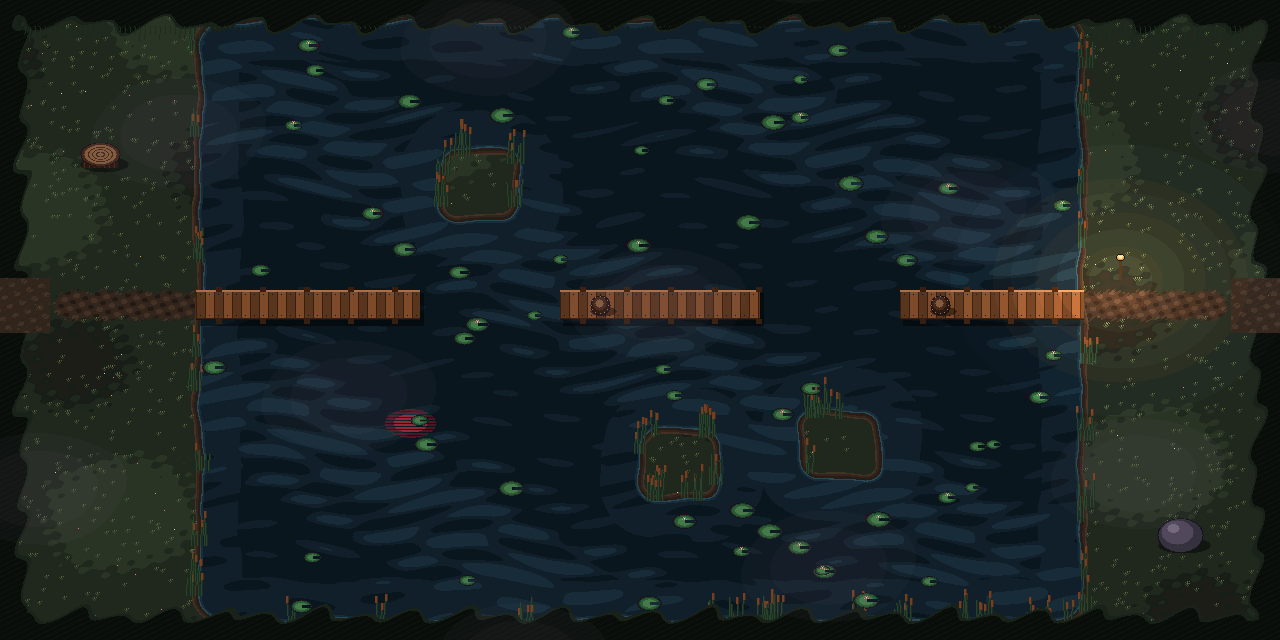
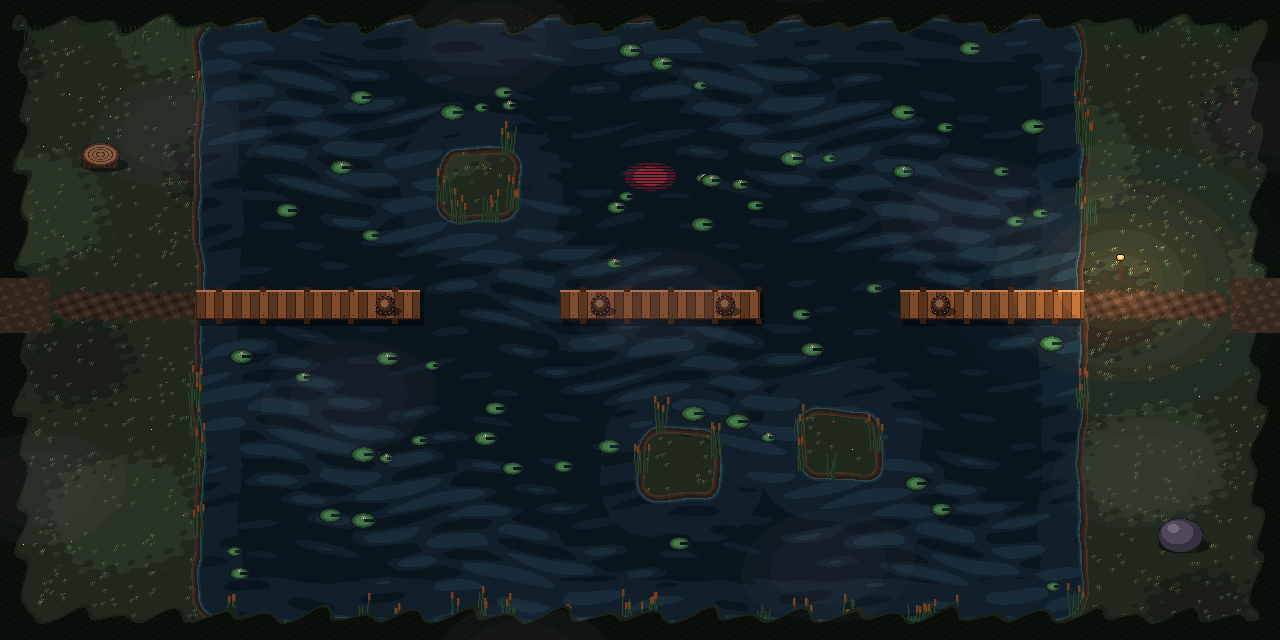
Critters swim instead of sinking; every room finishable both ways
- Frogs and Snappers that leap, charge or get knocked into the water swim to the nearest real
  dry land (docks and islands count), harmless while swimming, then climb out; first splash drops Pond Muck
- Hits no longer knock Rocco off a boardwalk into the water
- Return posts in Mooring Run, Snapper Shallows, Lily Crossing and Heron's Approach
  (some crossings were one-way)
- New test/progress.test.ts: flood-fills every room (walking, post crossings, bell honks)
  and checks each exit is reachable from the entry and back
- 92 tests

Claude-Session: https://claude.ai/code/session_01RHVZyy8vCMEMq4kRSxG4Ay

diff --git a/src/core/sim.ts b/src/core/sim.ts
@@ -53,6 +53,8 @@ export interface Enemy {
   attack: AttackKind;
   /** Seconds Biscuit has been hanging on (bosses shake him off). */
   grip: number;
+  /** Has been in the water once already (the first splash shakes loose some Pond Muck). */
+  wet: boolean;
 }
 
 /**
@@ -60,7 +62,7 @@ export interface Enemy {
  * leap: a frog's flying jump at the pack. lash: a frog's tongue, out and back. charge: Old Snapper's rush.
  * recover: a beat of vulnerability after an attack.
  */
-export type CritterMode = 'stalk' | 'wind' | 'leap' | 'lash' | 'charge' | 'recover' | 'spear' | 'gust' | 'darts' | 'call';
+export type CritterMode = 'stalk' | 'wind' | 'leap' | 'lash' | 'charge' | 'recover' | 'spear' | 'gust' | 'darts' | 'call' | 'swim';
 export type AttackKind = 'leap' | 'lash' | 'charge' | 'bite' | 'spear' | 'gust' | 'dart';
 
 /** A feather dart lobbed at Bimbo: it lands on the marked spot when t reaches T. */
@@ -119,6 +121,7 @@ const QUIPS = {
   honk: ['HONK'],
   furious: ['FURY MODE. You are not in charge.'],
   slurp: ['SLURP. A frog tongue in the pack.', 'The frog drank some of Bimbo\'s water!', 'Tongue! Bimbo: "HEY."'],
+  swimback: ['Splash! The frog paddles back to shore.', 'Plop. It swims for the bank.', 'Into the drink! It will be back.'],
   wake: ['The frog blinks awake. Ribbit?', 'Trance broken. The frog hops home.', 'Red eyes fade. Frog says thanks.'],
 } as const;
 
@@ -223,6 +226,24 @@ export class Sim {
   restartRoom(): void {
     if (!this.room.def.doors) { this.reset(); return; }
     this.enterRoom(this.room.def, this.entryDoor, true);
+  }
+
+  /** The closest spot a critter can climb out onto: dry, inside the room, clear of walls (docks and islands count). */
+  nearestLand(x: number, y: number, r: number): Vec {
+    const room = this.room, { width, height } = room.def;
+    for (let d = 12; d < 900; d += 12) {
+      const n = Math.max(12, Math.round(d / 6));
+      let best: Vec | null = null, bd = Infinity;
+      for (let i = 0; i < n; i++) {
+        const a = (i / n) * Math.PI * 2, px = x + Math.cos(a) * d, py = y + Math.sin(a) * d;
+        if (px < r + 20 || py < r + 20 || px > width - r - 20 || py > height - r - 20) continue;
+        if (room.inPit(px, py, -r)) continue;
+        const o = { x: px, y: py, r }; if (room.collide(o)) continue;
+        const dd = Math.hypot(px - x, py - y); if (dd < bd) { bd = dd; best = { x: px, y: py }; }
+      }
+      if (best) return best;
+    }
+    return { x, y };
   }
 
   /** Where Bimbo is: on Rocco's back, opposite the way he faces. */
@@ -366,7 +387,7 @@ export class Sim {
     const hp = boss ? HERON_HP : k ? 8 : 3;
     return { id: this.nextId++, kind, x, y, r: boss ? 24 : k ? 20 : 13, hp, max: hp, heavy: k, stun: 0,
       vx: 0, vy: 0, falling: 0, dead: false, hitT: 0, spd: boss ? 0 : k ? 42 : 78, woke: 0,
-      mode: 'stalk', modeT: 0, cd: boss ? 2 : 0.8 + this.rng() * 1.2, tx: x, ty: y, hit: false, attack: 'leap', grip: 0 };
+      mode: 'stalk', modeT: 0, cd: boss ? 2 : 0.8 + this.rng() * 1.2, tx: x, ty: y, hit: false, attack: 'leap', grip: 0, wet: false };
   }
 
   /** Take and clear the events produced since the last drain. */
@@ -651,8 +672,9 @@ export class Sim {
       this.fx('splash', bk.x, bk.y - 34);
       if (pk.water > 0.3) this.say(heavy ? 'WHAM. Old Snapper rams the pack.' : side > 1 ? 'It leapt at Bimbo! Water everywhere.' : 'Splash! Rocco blocks most of it.');
     }
-    if (from && pk.enabled) {                        // knocked back, away from the hit
-      const [ux, uy] = dirTo(from, p); p.vx += ux * (heavy ? 340 : 200); p.vy += uy * (heavy ? 340 : 200);
+    if (from && pk.enabled) {                        // knocked back, away from the hit, but never off a dock into the water
+      const [ux, uy] = dirTo(from, p), k = heavy ? 340 : 200, reach = k * 0.12;
+      if (!this.room.inPit(p.x + ux * (reach + 10), p.y + uy * (reach + 10), 0)) { p.vx += ux * k; p.vy += uy * k; }
     }
     this.waterWarnings(before);
   }
@@ -851,6 +873,24 @@ export class Sim {
       let ax = 0, ay = 0;
       const slow = g.state === 'latched' && g.target === e ? 0.35 : 1;
       const critter = ENTRANCED.has(e.kind);
+      if (critter && !BOSS.has(e.kind) && room.inPit(e.x, e.y, 2)) {
+        // Frogs and turtles swim. In the water a critter is harmless: it paddles back to the nearest bank.
+        if (e.mode !== 'swim') {
+          e.mode = 'swim'; e.modeT = 0;
+          const land = this.nearestLand(e.x, e.y, e.r); e.tx = land.x; e.ty = land.y;
+          this.fx('splash', e.x, e.y - 6);
+          if (!e.wet) { e.wet = true; this.drop('goo', room.bankPoint(e.x, e.y, 14).x, room.bankPoint(e.x, e.y, 14).y); }
+          this.say(this.pick('swimback'));
+        }
+        e.modeT += dt;
+        if (e.modeT > 4) { const land = this.nearestLand(e.x, e.y, e.r); e.tx = land.x; e.ty = land.y; e.modeT = 0; }   // re-plan if stuck
+        const [bx, by] = dirTo(e, { x: e.tx, y: e.ty }), sp = e.heavy ? 40 : 62;
+        e.x += (bx * sp + e.vx) * dt; e.y += (by * sp + e.vy) * dt;
+        const dk = Math.exp(-4 * dt); e.vx *= dk; e.vy *= dk;
+        room.collide(e); this.keepInside(e);
+        continue;
+      }
+      if (e.mode === 'swim') { e.mode = 'recover'; e.modeT = 0; e.cd = 1.2; }   // climbed out, shaking off
       if (BOSS.has(e.kind)) [ax, ay] = this.heronAI(e, dt, d);
       else if (critter) [ax, ay] = this.critterAI(e, dt, d, slow);
       else if (!e.stun && d < (AGGRO[e.kind] ?? 300)) { ax = dx * e.spd * slow; ay = dy * e.spd * slow; }
@@ -863,7 +903,7 @@ export class Sim {
       e.x += e.vx * dt; e.y += e.vy * dt;
       const dec = Math.exp(-5 * dt); e.vx *= dec; e.vy *= dec;
       room.collide(e);
-      if (room.inPit(e.x, e.y, 2) && Math.hypot(e.vx, e.vy) > 0) {
+      if (!critter && room.inPit(e.x, e.y, 2) && Math.hypot(e.vx, e.vy) > 0) {   // Room 01 pests fall; critters swim (above)
         e.falling = 0.001; this.handled++;
         const bank = room.bankPoint(e.x, e.y, 14);
         this.drop('goo', bank.x, bank.y);

diff --git a/test/progress.test.ts b/test/progress.test.ts
@@ -1,0 +1,105 @@
+/**
+ * Can every room actually be finished? A flood fill over walkable ground from the entry door, adding the
+ * moves Rocco has: walking, fling-and-yank to any post in leash range (landing where the pull stops), and
+ * honking the bell to open the gate. Each exit door must be reachable. No critters needed (they may wander off).
+ */
+import { describe, expect, it } from 'vitest';
+import { C } from '../src/core/config';
+import { Room } from '../src/core/room';
+import { ROOMS, WILLOWMERE, type RoomDef } from '../src/data/rooms';
+
+const CELL = 8;
+const HONK_REACH = 155 * (0.85 + 0.15 * 2) + 30;   // base honk range at Goose Power 2, plus the bell's slack
+
+function reachable(def: RoomDef, leash: number, fromDoor: string | null): { doors: Set<string>; gateOpened: boolean } {
+  const room = new Room(def);
+  const W = Math.ceil(def.width / CELL), H = Math.ceil(def.height / CELL);
+  const seen = new Uint8Array(W * H);
+  const walk = (x: number, y: number) => {
+    if (x < C.playerRadius || y < C.playerRadius || x > def.width - C.playerRadius || y > def.height - C.playerRadius) return false;
+    if (room.inPit(x, y, 6)) return false;
+    const o = { x, y, r: C.playerRadius - 2 };
+    return !room.collide(o);
+  };
+  const start = fromDoor ? def.doors!.find(d => d.id === fromDoor)!.spawn : def.playerStart;
+  const queue: [number, number][] = [];
+  const push = (x: number, y: number) => {
+    const cx = Math.floor(x / CELL), cy = Math.floor(y / CELL);
+    if (cx < 0 || cy < 0 || cx >= W || cy >= H || seen[cy * W + cx]) return;
+    if (!walk(cx * CELL + CELL / 2, cy * CELL + CELL / 2)) return;
+    seen[cy * W + cx] = 1; queue.push([cx, cy]);
+  };
+  let gateOpened = false;
+  const flood = () => {
+    while (queue.length) {
+      const [cx, cy] = queue.pop()!;
+      const x = cx * CELL + CELL / 2, y = cy * CELL + CELL / 2;
+      push(x + CELL, y); push(x - CELL, y); push(x, y + CELL); push(x, y - CELL);
+      for (const p of def.posts) {
+        const d = Math.hypot(p.x - x, p.y - y);
+        if (d < p.r + 34 || d > leash - 8) continue;
+        const stop = p.r + C.playerRadius + 4;
+        push(p.x - ((p.x - x) / d) * stop, p.y - ((p.y - y) / d) * stop);
+      }
+      if (def.bell && room.gateClosed && Math.hypot(def.bell.x - x, def.bell.y - y) < HONK_REACH + def.bell.r) gateOpened = true;
+    }
+  };
+  push(start.x, start.y);
+  flood();
+  if (gateOpened && room.gateClosed) {
+    room.gateClosed = false;
+    // re-flood from everything reached so far, now the gate is open
+    for (let i = 0; i < W * H; i++) if (seen[i]) queue.push([i % W, Math.floor(i / W)]);
+    flood();
+  }
+  const doors = new Set<string>();
+  for (const d of def.doors ?? []) {
+    for (let x = d.x; x <= d.x + d.w; x += 4) for (let y = d.y; y <= d.y + d.h; y += 4) {
+      const cx = Math.floor(x / CELL), cy = Math.floor(y / CELL);
+      if (cx >= 0 && cy >= 0 && cx < W && cy < H && seen[cy * W + cx]) doors.add(d.id);
+    }
+    // the door trigger sits in the gap at the edge; standing just inside it counts
+    const ix = d.spawn.x + (d.x + d.w / 2 - d.spawn.x) * 0.7, iy = d.spawn.y + (d.y + d.h / 2 - d.spawn.y) * 0.7;
+    if (seen[Math.floor(iy / CELL) * W + Math.floor(ix / CELL)]) doors.add(d.id);
+  }
+  return { doors, gateOpened };
+}
+
+/** The critical path: hub north, then each Reedmarsh room in order. */
+const PATH: [string, string | null, string, boolean][] = [
+  ['willowmere', null, 'north', false],
+  ['reedmarsh-1', 's', 'n', false],
+  ['reedmarsh-2', 'w', 'e', false],
+  ['reedmarsh-3', 'w', 'e', false],
+  ['reedmarsh-4', 'w', 'n', false],
+  ['reedmarsh-5', 'w', 'e', false],
+  ['reedmarsh-6', 'w', 'e', true],
+  ['reedmarsh-7', 'w', 'e', true],
+  ['reedmarsh-8', 'w', 'n', true],
+  ['reedmarsh-9', 'w', 'e', true],
+  ['reedmarsh-10', 'w', 'e', true],
+  ['reedmarsh-11', 'w', 'e', true],
+];
+
+describe('every room can be finished', () => {
+  for (const [id, from, exit, braided] of PATH) {
+    it(`${id}: from ${from ?? 'start'} to ${exit}`, () => {
+      const def = ROOMS[id] ?? WILLOWMERE;
+      const r = reachable(def, braided ? 270 : 230, from);
+      expect([...r.doors], `${id} exits reached`).toContain(exit);
+    });
+  }
+
+  it('Snapper Shallows can be crossed by the post alone, even if both Snappers are gone', () => {
+    expect([...reachable(ROOMS['reedmarsh-4']!, 230, 'w').doors]).toContain('n');
+  });
+
+  it('and you can always get back: each room returns to the door you came in by', () => {
+    for (const [id, from, exit, braided] of PATH) {
+      if (!from) continue;
+      const def = ROOMS[id]!;
+      const r = reachable(def, braided ? 270 : 230, exit === 'north' ? null : exit);
+      expect([...r.doors], `${id}: back from ${exit}`).toContain(from);
+    }
+  });
+});

diff --git a/test/world.test.ts b/test/world.test.ts
@@ -210,12 +210,35 @@ describe('Reedmarsh crossings', () => {
 });
 
 describe('Reedmarsh part two', () => {
-  it('Snapper Run: a Snapper that charges past Rocco over the bank goes into the water', () => {
+  it('Snapper Run: a Snapper that charges over the bank splashes in, swims back, and climbs out', () => {
     const sim = at(ROOMS['reedmarsh-9']!); fixRng(sim, 0.5);
     const s = sim.mkEnemy('snapper', 600, 300); sim.enemies.push(s);
     s.mode = 'charge'; s.attack = 'charge'; s.modeT = 0; s.vx = 0; s.vy = 330; s.hit = true;
-    run(sim, 1);
-    expect(s.falling > 0 || s.dead).toBe(true);
+    let swam = false;
+    for (let i = 0; i < 60 * 8; i++) { sim.step(STEP); if ((s.mode as string) === 'swim') swam = true; }
+    expect(swam).toBe(true);
+    expect(s.dead).toBe(false); expect(s.falling).toBe(0);
+    expect(sim.room.inPit(s.x, s.y, 2)).toBe(false);         // back on land
+  });
+
+  it('a frog that leaps into the water swims back instead of dying', () => {
+    const sim = at(ROOMS['reedmarsh-7']!);
+    const f = sim.mkEnemy('frog', 640, 225); sim.enemies.push(f);
+    f.x = 700; f.y = 200; f.vx = 0; f.vy = 0;                // in the water off the island
+    let swam = false;
+    for (let i = 0; i < 60 * 6; i++) { sim.step(STEP); if (f.mode === 'swim') swam = true; }
+    expect(swam).toBe(true);
+    expect(sim.enemies.includes(f)).toBe(true);
+    expect(f.dead).toBe(false);
+    expect(sim.room.inPit(f.x, f.y, 2)).toBe(false);
+  });
+
+  it('a hit never knocks Rocco off a boardwalk into the water', () => {
+    const sim = at(ROOMS['reedmarsh-7']!); fixRng(sim, 0.99);
+    sim.player.x = 360; sim.player.y = 315; sim.player.inv = 0;   // on the first boardwalk
+    sim.hurtPlayer(1, true, { x: 360, y: 290 });                  // hit from the north: pushed south, toward water
+    run(sim, 0.5);
+    expect(sim.room.inPit(sim.player.x, sim.player.y, 6)).toBe(false);
   });
 
   it('Bell Islands: the bell can be honked from the first island', () => {

diff --git a/src/view/art.ts b/src/view/art.ts
@@ -383,6 +383,10 @@ export class ArtRenderer {
       const moving = e.woke > 0 || Math.hypot(e.vx, e.vy) > 15;
       let hop = e.kind !== 'snapper' && moving ? -Math.abs(Math.sin(time * 9 + e.id)) * 4 : 0;
       if (e.mode === 'leap') hop = -Math.sin(Math.min(1, e.modeT / 0.34) * Math.PI) * 16;     // arcs through the air
+      if (e.mode === 'swim') {                     // low in the water, paddling, with a ripple
+        hop = 6 + Math.round(Math.sin(time * 6 + e.id) * 1.5);
+        g.lineStyle(1, 0x9ae0ff, 0.6); g.strokeEllipse(x, y + 6, e.heavy ? 50 : 24 + Math.sin(time * 5) * 3, e.heavy ? 12 : 7);
+      }
       const pdx = sim.player.x - x;
       s.setPosition(Math.round(x), Math.round(y + hop)).setScale(sc).setDepth(y)
         .setFlipX(e.kind === 'snapper' ? (e.woke > 0 ? pdx > 0 : e.vx < -5 || pdx < -10) : false);

diff --git a/art/rooms/reedmarsh_layout.py b/art/rooms/reedmarsh_layout.py
@@ -134,6 +134,7 @@ check_reach('run: shore to A', (262, 260), A, BASE_LEASH)
 check_reach('run: A to B', (470, 250), B, BASE_LEASH)
 check_reach('run: B to C', (650, 310), Cc, BASE_LEASH)
 check_reach('run: C to far shore', (840, 240), D, BASE_LEASH)
+check_reach('run: island A back to the start shore', (375, 215), (230, 230), BASE_LEASH)
 ROOMS.append(room(
     'reedmarsh-2', 'Mooring Run', 1280, 600,
     [dict(id='w', side='W', at=300, to='reedmarsh-1', toDoor='n', label='Reed Gate'),
@@ -142,9 +143,9 @@ ROOMS.append(room(
     pits=[rect(260, 20, 700, 560)],
     bridges=[rect(370, 160, 110, 100, kind='island'), rect(550, 300, 110, 100, kind='island'), rect(740, 170, 110, 100, kind='island')],
     refills=[rect(236, 20, 26, 560), rect(958, 20, 26, 560)],
-    posts=[post(*A), post(*B), post(*Cc), post(*D)],
+    posts=[post(*A), post(*B), post(*Cc), post(*D), post(230, 230)],   # the last one is for the trip back
     props=[rect(1120, 120, 40, 30, kind='rock'), rect(90, 470, 56, 24, kind='log'), rect(1180, 470, 40, 28, kind='stump')],
-    enemies=[frog(150, 140), frog(160, 500), frog(1110, 180), frog(1130, 460)],
+    enemies=[frog(110, 100), frog(160, 500), frog(1110, 180), frog(1130, 460)],
     bread=[{'x': 630, 'y': 372}, {'x': 120, 'y': 120}],
     kits=[{'x': 1180, 'y': 540}], spools=[{'x': 110, 'y': 400}],
     lantern={'x': 226, 'y': 250},
@@ -176,6 +177,7 @@ ROOMS.append(room(
 # 4 ---------------------------------------------------------------- Snapper Shallows
 check_reach('shallows: latch Snapper as he comes to the bank', (394, 330), (600, 330), BASE_LEASH)
 check_reach('shallows: backup post', (394, 160), (610, 160), BASE_LEASH)
+check_reach('shallows: post back to the west bank', (586, 160), (370, 160), BASE_LEASH)
 ROOMS.append(room(
     'reedmarsh-4', 'Snapper Shallows', 1120, 640,
     [dict(id='w', side='W', at=320, to='reedmarsh-3', toDoor='e', label='Burrow Field'),
@@ -183,7 +185,7 @@ ROOMS.append(room(
     'w', subtitle='Reedmarsh · 4',
     pits=[rect(400, 20, 180, 600)],
     refills=[rect(376, 20, 26, 600), rect(578, 20, 26, 600)],
-    posts=[post(610, 160)],
+    posts=[post(610, 160), post(370, 160)],   # across, and back
     props=[rect(200, 120, 40, 30, kind='rock'), rect(240, 470, 56, 24, kind='log'), rect(860, 300, 40, 30, kind='rock'),
            rect(1000, 520, 40, 28, kind='stump')],
     enemies=[snapper(660, 330), snapper(900, 500), frog(800, 190), frog(980, 420), frog(180, 300)],
@@ -216,6 +218,7 @@ PA, PB, PC = (500, 285), (790, 380), (1090, 330)
 check_reach('lily: shore to A', (246, 320), PA, BRAIDED, need_braided=True)   # pit edge 240 + 6
 check_reach('lily: A to B', (545, 300), PB, BRAIDED, need_braided=True)
 check_reach('lily: B to far shore', (835, 370), PC, BRAIDED, need_braided=True)
+check_reach('lily: back from A to the west shore', (455, 290), (210, 300), BRAIDED)
 bell6 = {'x': 1196, 'y': 180, 'r': 14}
 ROOMS.append(room(
     'reedmarsh-6', 'Lily Crossing', 1280, 640,
@@ -226,7 +229,7 @@ ROOMS.append(room(
     pits=[rect(240, 20, 780, 600)],
     bridges=[rect(450, 240, 100, 90, kind='island'), rect(740, 335, 100, 90, kind='island')],
     refills=[rect(216, 20, 26, 600), rect(1018, 20, 26, 600)],
-    posts=[post(*PA), post(*PB), post(*PC)],
+    posts=[post(*PA), post(*PB), post(*PC), post(210, 300)],   # the last one is for the trip back
     bell=bell6,
     props=[rect(100, 120, 40, 30, kind='rock'), rect(1120, 520, 56, 24, kind='log')],
     enemies=[frog(120, 180), snapper(1170, 510), frog(1180, 140)],
@@ -325,6 +328,8 @@ ROOMS.append(room(
 # 11 --------------------------------------------------------------- Heron's Approach
 check_reach('approach: gap 1', (414, 305), (600, 305), BASE_LEASH)
 check_reach('approach: gap 2', (754, 305), (940, 305), BASE_LEASH)
+check_reach('approach: back over gap 2', (906, 305), (725, 305), BASE_LEASH)
+check_reach('approach: back over gap 1', (566, 305), (385, 305), BASE_LEASH)
 ROOMS.append(room(
     'reedmarsh-11', "Heron's Approach", 1280, 640,
     [dict(id='w', side='W', at=305, to='reedmarsh-10', toDoor='e', label='Bell Islands'),
@@ -334,7 +339,7 @@ ROOMS.append(room(
     bridges=[rect(196, 290, 224, 30, kind='dock'), rect(560, 290, 200, 30, kind='dock'), rect(900, 290, 184, 30, kind='dock'),
              rect(440, 150, 80, 70, kind='island'), rect(800, 410, 80, 70, kind='island'), rect(640, 430, 80, 70, kind='island')],
     refills=[rect(176, 20, 26, 600), rect(1078, 20, 26, 600)],
-    posts=[post(600, 305), post(940, 305)],
+    posts=[post(600, 305), post(940, 305), post(725, 305), post(385, 305)],   # forward pair, return pair
     props=[rect(1160, 520, 40, 30, kind='rock'), rect(80, 140, 40, 28, kind='stump')],
     enemies=[frog(480, 185), frog(840, 445), frog(680, 465)],
     bread=[{'x': 1200, 'y': 560}],
